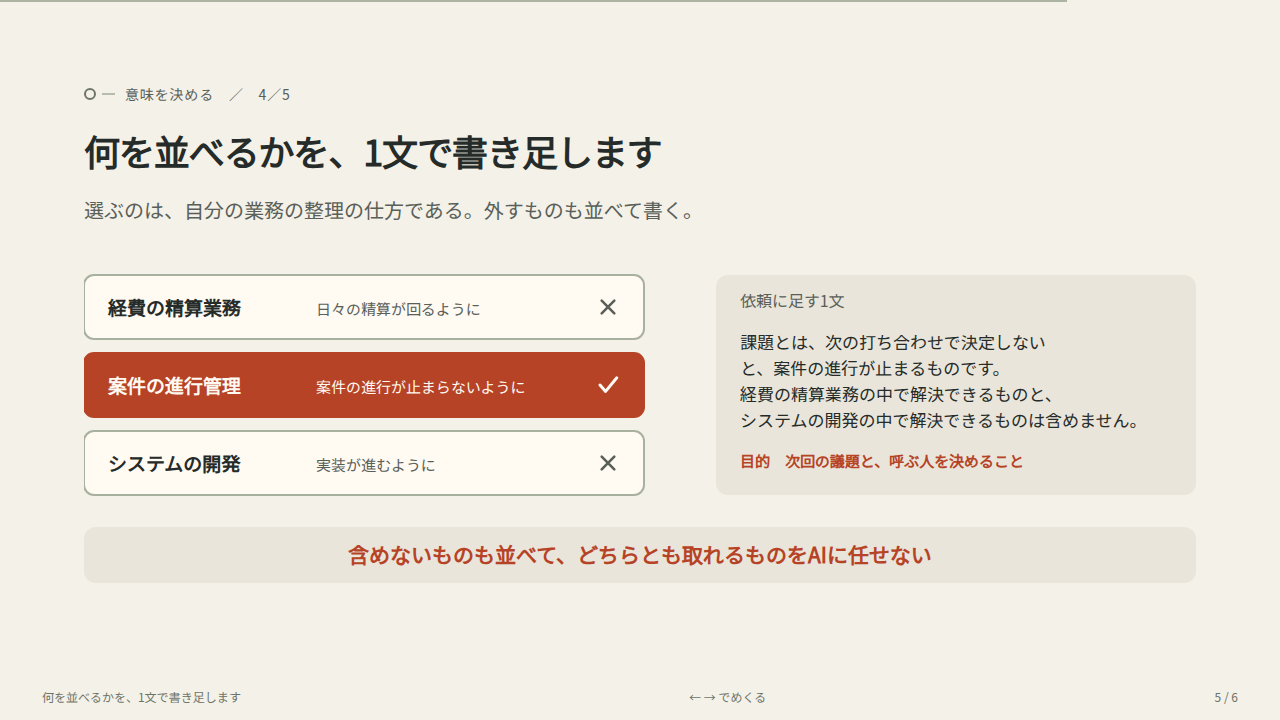
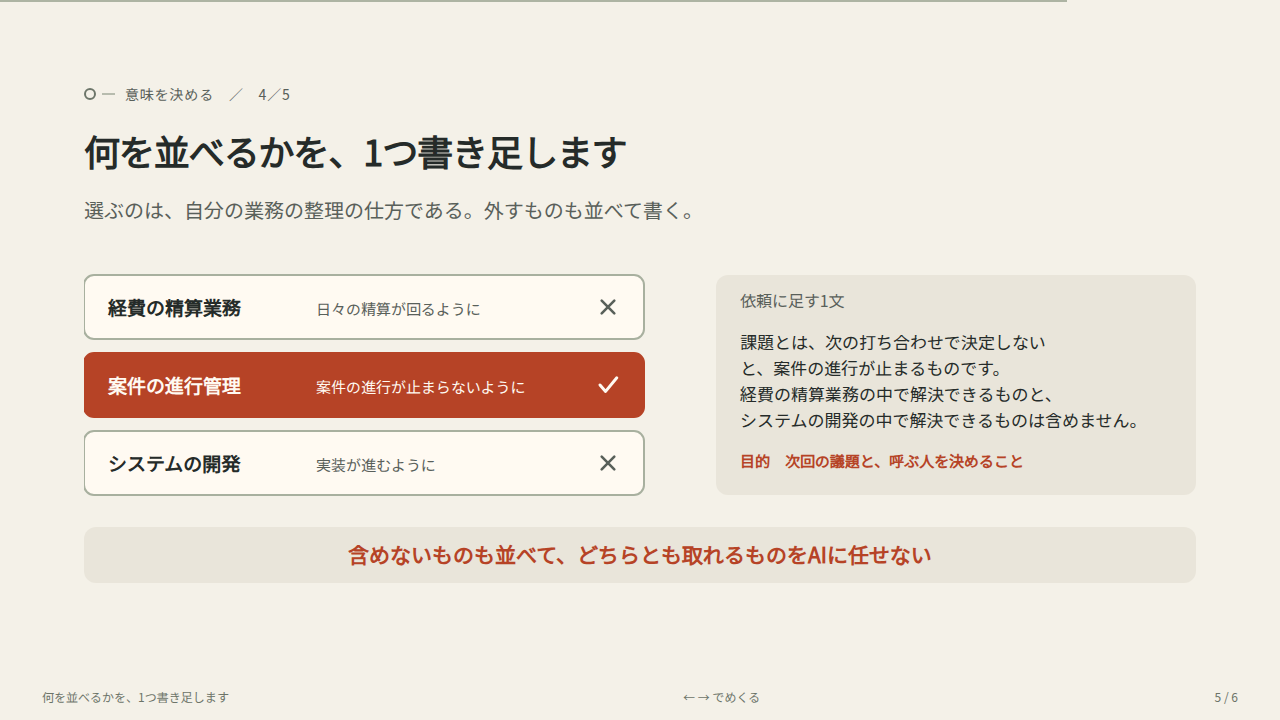
全54枚の本文を通して読み、25件を直す
前の回は、書き直した枚とつなぎと数値だけを見て、全枚の本文を通して
読んでいなかった。利用者に指摘され、頭から終わりまで読んだ。

論の穴が12件 ── 「からです」の受けが無い文、「この3つ」の指し先が
2通りに読める箇所、揺らぐの定義より前に揺らぎ方と述べている箇所、
「意味の文が落とす」の言い残し、「経理の整理」と「精算業務の側」の
呼び分けの崩れ、AIの決め方を「毎回違う」と「毎回同じとは限らない」で
言い分けている箇所ほか。

見出しが本文と合っていないものが4件 ── 「この6本が扱うのは」（6本の
初出が見出しにあった）、「1文で書き足します」が2件（3文を3つへ統一
したときの取り残し）、「条件は、1件ずつの中身を決めます」（条件は
4つで、2つは一覧の全体に効く）。

定義していない語が2件 ──「1段下がる」。高さは連続した量として定義
しており、段は無い。

ほかに、文体の不統一、枚をまたいだ重複、助数詞の誤り（議事録を本で
数えていた）を直した。

45字以上の文は0件、説明より前に出る語は0件、枚どうしの重なりは35%超で
0件である。

Claude-Session: https://claude.ai/code/session_01NPi5xYeUBqV4K3tpkqYXte

Changed region(s): [[0.2812, 0.1833, 0.5312, 0.2444], [0.0938, 0.9472, 0.1875, 0.9778], [0.5312, 0.9472, 0.5938, 0.9778]]

diff --git a/docs/workshops/ai-workshop/materials/decks/lesson-05-rule.html b/docs/workshops/ai-workshop/materials/decks/lesson-05-rule.html
@@ -431,9 +431,9 @@ h1{font-size:51px;line-height:1.43} h2{font-size:36px;line-height:1.46;margin-bo
 <p class="ws-intro">では、何が足りないのか。この一覧は、次の打ち合わせで決めるために作ったものだった。ならば、項目名だけでは足りない。</p>
 <div class="body"><svg class="ws-visual" viewBox="0 0 1112 348" role="img" aria-label="必ず入れてほしい3つが、頭の中には在り、依頼には書かれていない"><text x="0" y="24.0" font-size="18" fill="#59605a" font-weight="400" text-anchor="start">頭の中にあった約束</text><rect x="0" y="40" width="520" height="214" rx="12" fill="#fffaf2" stroke="#a8b09f" stroke-width="2"/><text x="28" y="74.0" font-size="19" fill="#252b29" font-weight="700" text-anchor="start">誰が決めるか</text><text x="28" y="100.0" font-size="16" fill="#59605a" font-weight="400" text-anchor="start">ないと　その場に呼ぶ人が決まらない</text><text x="28" y="136.0" font-size="19" fill="#252b29" font-weight="700" text-anchor="start">いつまでに決めるか</text><text x="28" y="162.0" font-size="16" fill="#59605a" font-weight="400" text-anchor="start">ないと　今回扱うかが決まらない</text><text x="28" y="198.0" font-size="19" fill="#252b29" font-weight="700" text-anchor="start">決定の期限の順に並べる</text><text x="28" y="224.0" font-size="16" fill="#59605a" font-weight="400" text-anchor="start">ないと　どれを先に扱うかが分からない</text><text x="596" y="24.0" font-size="18" fill="#59605a" font-weight="400" text-anchor="start">依頼に書いてあったこと</text><rect x="596" y="40" width="516" height="214" rx="12" fill="#e9e5da" stroke="none" stroke-width="2"/><text x="624" y="82.0" font-size="18" fill="#252b29" font-weight="700" text-anchor="start">意味</text><text x="700" y="82.0" font-size="17" fill="#59605a" font-weight="400" text-anchor="start">決定しないと案件の進行が止まるもの</text><text x="624" y="122.0" font-size="18" fill="#252b29" font-weight="700" text-anchor="start">範囲</text><text x="700" y="122.0" font-size="17" fill="#59605a" font-weight="400" text-anchor="start">今回の案件で、本番の切り替えまでに決めるもの</text><text x="624" y="170.0" font-size="18" fill="#59605a" font-weight="700" text-anchor="start">条件</text><path d="M707.7 157.7 L720.3 170.3 M720.3 157.7 L707.7 170.3" stroke="#b64326" stroke-width="2.6" fill="none" stroke-linecap="round" stroke-linejoin="round"/><text x="740" y="170.0" font-size="17" fill="#b64326" font-weight="700" text-anchor="start">書いていない</text><text x="624" y="216.0" font-size="16" fill="#59605a" font-weight="400" text-anchor="start">書いていない約束は、守られる回と</text><text x="624" y="240.0" font-size="16" fill="#59605a" font-weight="400" text-anchor="start">守られない回が出る</text><rect x="0" y="280" width="1112" height="56" rx="12" fill="#e9e5da" stroke="none" stroke-width="2"/><text x="556.0" y="316.0" font-size="21" fill="#b64326" font-weight="700" text-anchor="middle">AIが手を抜いたのではない。書いていないことは、頼んでいないのと同じである</text></svg></div>
 </section>
-<section class="slide ws-diagram" aria-label="4: 条件は、1件ずつの中身を決めます">
+<section class="slide ws-diagram" aria-label="4: 条件には、1件ずつに効くものと、一覧に効くものがあります">
 <div class="kicker"><span class="ws-mark" aria-hidden="true"></span><span class="ws-kicker-label">条件を決める　／　3／5</span></div>
-<h2>条件は、1件ずつの中身を決めます</h2>
+<h2>条件には、1件ずつに効くものと、一覧に効くものがあります</h2>
 <p class="ws-intro">では、条件は意味や範囲と何が違うのか。意味と範囲は一覧の形を決め、条件は1件ずつの中身を決める。</p>
 <div class="body"><svg class="ws-visual" viewBox="0 0 1112 300" role="img" aria-label="意味と範囲は一覧に効き、条件は1件ずつに効く"><text x="0" y="24.0" font-size="18" fill="#59605a" font-weight="400" text-anchor="start">決まるものが違う</text><rect x="0" y="44" width="250" height="68" rx="10" fill="#fffaf2" stroke="#a8b09f" stroke-width="2"/><text x="125" y="76.0" font-size="20" fill="#252b29" font-weight="700" text-anchor="middle">意味</text><text x="125" y="98.0" font-size="15" fill="#59605a" font-weight="400" text-anchor="middle">並べるものの種類</text><rect x="0" y="124" width="250" height="68" rx="10" fill="#fffaf2" stroke="#a8b09f" stroke-width="2"/><text x="125" y="156.0" font-size="20" fill="#252b29" font-weight="700" text-anchor="middle">範囲</text><text x="125" y="178.0" font-size="15" fill="#59605a" font-weight="400" text-anchor="middle">拾ってくる場所</text><path d="M250 78 H300 V118 M250 158 H300 V118 H336" stroke="#a8b09f" stroke-width="2" fill="none" stroke-linecap="round" stroke-linejoin="round"/><path d="M327 112 l9 6 -9 6" stroke="#a8b09f" stroke-width="2" fill="none" stroke-linecap="round" stroke-linejoin="round"/><rect x="336" y="76" width="300" height="84" rx="10" fill="#e9e5da" stroke="none" stroke-width="2"/><text x="486" y="112.0" font-size="20" fill="#252b29" font-weight="700" text-anchor="middle">返ってくる一覧</text><text x="486" y="138.0" font-size="15" fill="#59605a" font-weight="400" text-anchor="middle">どういう一覧になるか</text><path d="M646 118 H686 M678 111 l8 7 -8 7" stroke="#a8b09f" stroke-width="2" fill="none" stroke-linecap="round" stroke-linejoin="round"/><rect x="696" y="44" width="416" height="44" rx="8" fill="#fffaf2" stroke="#a8b09f" stroke-width="2"/><text x="716" y="72.0" font-size="17" fill="#252b29" font-weight="400" text-anchor="start">承認の経路</text><text x="900" y="72.0" font-size="15" fill="#b64326" font-weight="400" text-anchor="start">誰が決めるか</text><text x="1010" y="72.0" font-size="15" fill="#b64326" font-weight="400" text-anchor="start">いつまでに</text><rect x="696" y="102" width="416" height="44" rx="8" fill="#fffaf2" stroke="#a8b09f" stroke-width="2"/><text x="716" y="130.0" font-size="17" fill="#252b29" font-weight="400" text-anchor="start">申請の締め日</text><text x="900" y="130.0" font-size="15" fill="#b64326" font-weight="400" text-anchor="start">誰が決めるか</text><text x="1010" y="130.0" font-size="15" fill="#b64326" font-weight="400" text-anchor="start">いつまでに</text><rect x="696" y="160" width="416" height="44" rx="8" fill="#fffaf2" stroke="#a8b09f" stroke-width="2"/><text x="716" y="188.0" font-size="17" fill="#252b29" font-weight="400" text-anchor="start">旧システムの停止日</text><text x="900" y="188.0" font-size="15" fill="#b64326" font-weight="400" text-anchor="start">誰が決めるか</text><text x="1010" y="188.0" font-size="15" fill="#b64326" font-weight="400" text-anchor="start">いつまでに</text><rect x="696" y="232" width="416" height="56" rx="10" fill="#b64326" stroke="#b64326" stroke-width="2"/><text x="904" y="258.0" font-size="19" fill="#fffaf2" font-weight="700" text-anchor="middle">条件</text><text x="904" y="280.0" font-size="15" fill="#fffaf2" font-weight="400" text-anchor="middle">必ず入れるものと、並べる順</text><path d="M904 232 V214 M898 220 l6 -6 6 6" stroke="#b64326" stroke-width="2" fill="none" stroke-linecap="round" stroke-linejoin="round"/><text x="0" y="250.0" font-size="16" fill="#59605a" font-weight="400" text-anchor="start">書いてあっても、書き方まで決めていないと揃わない</text></svg></div>
 </section>
@@ -462,7 +462,7 @@ h1{font-size:51px;line-height:1.43} h2{font-size:36px;line-height:1.46;margin-bo
   const elTotal = document.getElementById('total');
   const elBar = document.getElementById('progress');
   const elLabel = document.getElementById('label');
-  const LABELS = ["表紙", "意味と範囲を決めても、1件ずつの中身は揃いま", "必ず入れてほしい4つを、依頼に書いていません", "条件は、1件ずつの中身を決めます", "条件を書き足すと、1件ずつがこうなります", "条件を足すと、1件ずつの中身が揃います"];
+  const LABELS = ["表紙", "意味と範囲を決めても、1件ずつの中身は揃いま", "必ず入れてほしい4つを、依頼に書いていません", "条件には、1件ずつに効くものと、一覧に効くも", "条件を書き足すと、1件ずつがこうなります", "条件を足すと、1件ずつの中身が揃います"];
   let i = 0;
   elTotal.textContent = total;
   function show(n){

diff --git a/docs/workshops/ai-workshop/materials/decks/lesson-03-word.html b/docs/workshops/ai-workshop/materials/decks/lesson-03-word.html
@@ -437,9 +437,9 @@ h1{font-size:51px;line-height:1.43} h2{font-size:36px;line-height:1.46;margin-bo
 <p class="ws-intro">揺れているのはAIではない。PMは自分の業務の目的なので、書く必要を感じない。</p>
 <div class="body"><svg class="ws-visual" viewBox="0 0 1112 380" role="img" aria-label="何のために整理するかを書いていないので、AIが選定する"><text x="0" y="26.0" font-size="17" fill="#59605a" font-weight="400" text-anchor="start">AIから見ると、3つとも同じ資格の候補である</text><rect x="400" y="52" width="312" height="66" rx="12" fill="#b64326" stroke="#b64326" stroke-width="2"/><text x="556" y="95.0" font-size="26" fill="#fffaf2" font-weight="700" text-anchor="middle">「整理して」</text><path d="M556 118 C556 152 172 144 172 174" stroke="#b64326" stroke-width="2" fill="none" stroke-linecap="round" stroke-linejoin="round"/><path d="M166 168 l6 8 6 -8" stroke="#b64326" stroke-width="2" fill="none" stroke-linecap="round" stroke-linejoin="round"/><rect x="0" y="180" width="344" height="86" rx="12" fill="#fffaf2" stroke="#a8b09f" stroke-width="2"/><text x="172" y="216.0" font-size="19" fill="#252b29" font-weight="700" text-anchor="middle">経費の精算業務</text><text x="172" y="246.0" font-size="15" fill="#59605a" font-weight="400" text-anchor="middle">日々の精算が回るように</text><path d="M166.6 280.6 L177.4 291.4 M177.4 280.6 L166.6 291.4" stroke="#59605a" stroke-width="2.6" fill="none" stroke-linecap="round" stroke-linejoin="round"/><path d="M556 118 C556 152 556 144 556 174" stroke="#b64326" stroke-width="2" fill="none" stroke-linecap="round" stroke-linejoin="round"/><path d="M550 168 l6 8 6 -8" stroke="#b64326" stroke-width="2" fill="none" stroke-linecap="round" stroke-linejoin="round"/><rect x="384" y="180" width="344" height="86" rx="12" fill="#fffaf2" stroke="#b64326" stroke-width="2"/><text x="556" y="216.0" font-size="19" fill="#252b29" font-weight="700" text-anchor="middle">案件の進行管理</text><text x="556" y="246.0" font-size="15" fill="#59605a" font-weight="400" text-anchor="middle">案件の進行が止まらないように</text><text x="556" y="292.0" font-size="16" fill="#b64326" font-weight="700" text-anchor="middle">PMが意図したのは、これ1つ</text><path d="M556 118 C556 152 940 144 940 174" stroke="#b64326" stroke-width="2" fill="none" stroke-linecap="round" stroke-linejoin="round"/><path d="M934 168 l6 8 6 -8" stroke="#b64326" stroke-width="2" fill="none" stroke-linecap="round" stroke-linejoin="round"/><rect x="768" y="180" width="344" height="86" rx="12" fill="#fffaf2" stroke="#a8b09f" stroke-width="2"/><text x="940" y="216.0" font-size="19" fill="#252b29" font-weight="700" text-anchor="middle">システムの開発</text><text x="940" y="246.0" font-size="15" fill="#59605a" font-weight="400" text-anchor="middle">実装が進むように</text><path d="M934.6 280.6 L945.4 291.4 M945.4 280.6 L934.6 291.4" stroke="#59605a" stroke-width="2.6" fill="none" stroke-linecap="round" stroke-linejoin="round"/><rect x="0" y="312" width="1112" height="56" rx="12" fill="#e9e5da" stroke="none" stroke-width="2"/><text x="556.0" y="348.0" font-size="21" fill="#b64326" font-weight="700" text-anchor="middle">書いていないので、選定するのはAIになる</text></svg></div>
 </section>
-<section class="slide ws-diagram" aria-label="5: 何を並べるかを、1文で書き足します">
+<section class="slide ws-diagram" aria-label="5: 何を並べるかを、1つ書き足します">
 <div class="kicker"><span class="ws-mark" aria-hidden="true"></span><span class="ws-kicker-label">意味を決める　／　4／5</span></div>
-<h2>何を並べるかを、1文で書き足します</h2>
+<h2>何を並べるかを、1つ書き足します</h2>
 <p class="ws-intro">選ぶのは、自分の業務の整理の仕方である。外すものも並べて書く。</p>
 <div class="body"><svg class="ws-visual" viewBox="0 0 1112 350" role="img" aria-label="3つの整理の仕方のうち1つを選び、目的の言葉で書き直す"><rect x="0" y="30" width="560" height="64" rx="10" fill="#fffaf2" stroke="#a8b09f" stroke-width="2"/><text x="24" y="70.0" font-size="19" fill="#252b29" font-weight="700" text-anchor="start">経費の精算業務</text><text x="232" y="70.0" font-size="15" fill="#59605a" font-weight="400" text-anchor="start">日々の精算が回るように</text><path d="M517.7 55.7 L530.3 68.3 M530.3 55.7 L517.7 68.3" stroke="#59605a" stroke-width="2.6" fill="none" stroke-linecap="round" stroke-linejoin="round"/><rect x="0" y="108" width="560" height="64" rx="10" fill="#b64326" stroke="#b64326" stroke-width="2"/><text x="24" y="148.0" font-size="19" fill="#fffaf2" font-weight="700" text-anchor="start">案件の進行管理</text><text x="232" y="148.0" font-size="15" fill="#fffaf2" font-weight="400" text-anchor="start">案件の進行が止まらないように</text><path d="M516.0 140 L521.6 146.4 L532.8 132.8" stroke="#fffaf2" stroke-width="3" fill="none" stroke-linecap="round" stroke-linejoin="round"/><rect x="0" y="186" width="560" height="64" rx="10" fill="#fffaf2" stroke="#a8b09f" stroke-width="2"/><text x="24" y="226.0" font-size="19" fill="#252b29" font-weight="700" text-anchor="start">システムの開発</text><text x="232" y="226.0" font-size="15" fill="#59605a" font-weight="400" text-anchor="start">実装が進むように</text><path d="M517.7 211.7 L530.3 224.3 M530.3 211.7 L517.7 224.3" stroke="#59605a" stroke-width="2.6" fill="none" stroke-linecap="round" stroke-linejoin="round"/><rect x="632" y="30" width="480" height="220" rx="12" fill="#e9e5da" stroke="none" stroke-width="2"/><text x="656" y="62.0" font-size="16" fill="#59605a" font-weight="400" text-anchor="start">依頼に足す1文</text><text x="656" y="104" font-size="17" fill="#252b29" font-weight="400" text-anchor="start">課題とは、次の打ち合わせで決定しない</text><text x="656" y="130" font-size="17" fill="#252b29" font-weight="400" text-anchor="start">と、案件の進行が止まるものです。</text><text x="656" y="156" font-size="17" fill="#252b29" font-weight="400" text-anchor="start">経費の精算業務の中で解決できるものと、</text><text x="656" y="182" font-size="17" fill="#252b29" font-weight="400" text-anchor="start">システムの開発の中で解決できるものは含めません。</text><text x="656" y="222.0" font-size="15" fill="#b64326" font-weight="700" text-anchor="start">目的　次回の議題と、呼ぶ人を決めること</text><rect x="0" y="282" width="1112" height="56" rx="12" fill="#e9e5da" stroke="none" stroke-width="2"/><text x="556.0" y="318.0" font-size="21" fill="#b64326" font-weight="700" text-anchor="middle">含めないものも並べて、どちらとも取れるものをAIに任せない</text></svg></div>
 </section>
@@ -462,7 +462,7 @@ h1{font-size:51px;line-height:1.43} h2{font-size:36px;line-height:1.46;margin-bo
   const elTotal = document.getElementById('total');
   const elBar = document.getElementById('progress');
   const elLabel = document.getElementById('label');
-  const LABELS = ["表紙", "同じものを渡して、同じことを3回頼みます", "整理の目的が、業務ごとに違います", "依頼には、何のために整理するかが書いてありま", "何を並べるかを、1文で書き足します", "意味を足すと、並ぶものの種類が揃います"];
+  const LABELS = ["表紙", "同じものを渡して、同じことを3回頼みます", "整理の目的が、業務ごとに違います", "依頼には、何のために整理するかが書いてありま", "何を並べるかを、1つ書き足します", "意味を足すと、並ぶものの種類が揃います"];
   let i = 0;
   elTotal.textContent = total;
   function show(n){

diff --git a/docs/workshops/ai-workshop/materials/decks/lesson-01-lead.html b/docs/workshops/ai-workshop/materials/decks/lesson-01-lead.html
@@ -425,9 +425,9 @@ h1{font-size:51px;line-height:1.43} h2{font-size:36px;line-height:1.46;margin-bo
 <p class="ws-intro">いまは名前だけでよい。何を指すかは、このあと実際の依頼で見せる。</p>
 <div class="body"><svg class="ws-visual" viewBox="0 0 1112 320" role="img" aria-label="この6本で身につけるものと、最後まで観たときに変わること"><text x="0" y="22.0" font-size="17" fill="#59605a" font-weight="400" text-anchor="start">この6本の動画で身につけるもの</text><rect x="0" y="38" width="536" height="190" rx="12" fill="#fffaf2" stroke="#b64326" stroke-width="2"/><text x="28" y="86.0" font-size="25" fill="#b64326" font-weight="700" text-anchor="start">抽象と具体という見方</text><path d="M28 106 H508" stroke="#a8b09f" stroke-width="1" fill="none" stroke-linecap="round" stroke-linejoin="round"/><text x="28" y="140" font-size="16" fill="#59605a" font-weight="400" text-anchor="start">広い言い方と狭い言い方のこと。</text><text x="28" y="166" font-size="16" fill="#59605a" font-weight="400" text-anchor="start">どちらがよい、という話ではない</text><text x="28" y="204.0" font-size="20" fill="#252b29" font-weight="700" text-anchor="start">ちょうどいい高さを見極める</text><text x="576" y="22.0" font-size="17" fill="#b64326" font-weight="700" text-anchor="start">最後まで観ると、こうなる</text><rect x="576" y="38" width="536" height="190" rx="12" fill="#e9e5da" stroke="none" stroke-width="2"/><path d="M600.0 86 L605.6 92.4 L616.8 78.8" stroke="#b64326" stroke-width="3" fill="none" stroke-linecap="round" stroke-linejoin="round"/><text x="638" y="92.0" font-size="17" fill="#252b29" font-weight="400" text-anchor="start">同じ依頼を、次の週も別の案件でも使える</text><path d="M600.0 138 L605.6 144.4 L616.8 130.8" stroke="#b64326" stroke-width="3" fill="none" stroke-linecap="round" stroke-linejoin="round"/><text x="638" y="144.0" font-size="17" fill="#252b29" font-weight="400" text-anchor="start">渡すものが替わっても、目的から外れない</text><path d="M600.0 190 L605.6 196.4 L616.8 182.8" stroke="#b64326" stroke-width="3" fill="none" stroke-linecap="round" stroke-linejoin="round"/><text x="638" y="196.0" font-size="17" fill="#252b29" font-weight="400" text-anchor="start">AIから返ってくるものに、再現性が出る</text><rect x="0" y="252" width="1112" height="56" rx="12" fill="#e9e5da" stroke="none" stroke-width="2"/><text x="556.0" y="288.0" font-size="21" fill="#b64326" font-weight="700" text-anchor="middle">名前より先に、実際に何が起きているかを見ます</text></svg></div>
 </section>
-<section class="slide ws-diagram" aria-label="3: この6本が扱うのは、作業1つだけです">
+<section class="slide ws-diagram" aria-label="3: この教材が扱うのは、作業1つだけです">
 <div class="kicker"><span class="ws-mark" aria-hidden="true"></span><span class="ws-kicker-label">はじめに　課題の把握　／　2／3</span></div>
-<h2>この6本が扱うのは、作業1つだけです</h2>
+<h2>この教材が扱うのは、作業1つだけです</h2>
 <p class="ws-intro">作業を1つに固定するので、返ってきたものが正しいかを判定できる。</p>
 <div class="body"><svg class="ws-visual" viewBox="0 0 1112 368" role="img" aria-label="6本が扱うのは、案件の進行管理の中の作業1つである"><text x="0" y="24.0" font-size="18" fill="#59605a" font-weight="400" text-anchor="start">案件の進行管理の中の作業</text><rect x="0" y="48" width="460" height="46" rx="10" fill="#b64326" stroke="#b64326" stroke-width="2"/><text x="24" y="78.0" font-size="19" fill="#fffaf2" font-weight="700" text-anchor="start">課題を整理する</text><rect x="0" y="106" width="460" height="46" rx="10" fill="#fffaf2" stroke="#a8b09f" stroke-width="2"/><text x="24" y="136.0" font-size="19" fill="#59605a" font-weight="400" text-anchor="start">次回の議題を組む</text><rect x="0" y="164" width="460" height="46" rx="10" fill="#fffaf2" stroke="#a8b09f" stroke-width="2"/><text x="24" y="194.0" font-size="19" fill="#59605a" font-weight="400" text-anchor="start">進捗を報告する</text><rect x="0" y="222" width="460" height="46" rx="10" fill="#fffaf2" stroke="#a8b09f" stroke-width="2"/><text x="24" y="252.0" font-size="19" fill="#59605a" font-weight="400" text-anchor="start">要員の割り当てを決める</text><path d="M492 140 H540 M532 133 l8 7 -8 7" stroke="#b64326" stroke-width="2" fill="none" stroke-linecap="round" stroke-linejoin="round"/><text x="596" y="24.0" font-size="18" fill="#b64326" font-weight="700" text-anchor="start">この6本が扱う作業</text><rect x="596" y="44" width="516" height="232" rx="12" fill="#fffaf2" stroke="#b64326" stroke-width="2"/><text x="624" y="88.0" font-size="24" fill="#252b29" font-weight="700" text-anchor="start">課題を整理する</text><path d="M624 106 H1084" stroke="#a8b09f" stroke-width="1" fill="none" stroke-linecap="round" stroke-linejoin="round"/><text x="624" y="142.0" font-size="15" fill="#b64326" font-weight="700" text-anchor="start">誰が</text><text x="750" y="142.0" font-size="17" fill="#252b29" font-weight="400" text-anchor="start">PM</text><text x="624" y="178.0" font-size="15" fill="#b64326" font-weight="700" text-anchor="start">何のために</text><text x="750" y="178.0" font-size="17" fill="#252b29" font-weight="400" text-anchor="start">次回の議題と、呼ぶ人を決めること</text><text x="624" y="214.0" font-size="15" fill="#b64326" font-weight="700" text-anchor="start">渡すもの</text><text x="750" y="214.0" font-size="17" fill="#252b29" font-weight="400" text-anchor="start">定例の議事録</text><text x="624" y="250.0" font-size="15" fill="#b64326" font-weight="700" text-anchor="start">返すもの</text><text x="750" y="250.0" font-size="17" fill="#252b29" font-weight="400" text-anchor="start">課題の一覧</text><rect x="0" y="300" width="1112" height="56" rx="12" fill="#e9e5da" stroke="none" stroke-width="2"/><text x="556.0" y="336.0" font-size="21" fill="#b64326" font-weight="700" text-anchor="middle">6本とも、この1つの作業で進む</text></svg></div>
 </section>
@@ -450,7 +450,7 @@ h1{font-size:51px;line-height:1.43} h2{font-size:36px;line-height:1.46;margin-bo
   const elTotal = document.getElementById('total');
   const elBar = document.getElementById('progress');
   const elLabel = document.getElementById('label');
-  const LABELS = ["表紙", "この教材で身につけるのは、抽象と具体という見", "この6本が扱うのは、作業1つだけです", "6本で、この順に進みます"];
+  const LABELS = ["表紙", "この教材で身につけるのは、抽象と具体という見", "この教材が扱うのは、作業1つだけです", "6本で、この順に進みます"];
   let i = 0;
   elTotal.textContent = total;
   function show(n){

diff --git a/docs/workshops/ai-workshop/materials/decks/lesson-04-scope.html b/docs/workshops/ai-workshop/materials/decks/lesson-04-scope.html
@@ -437,9 +437,9 @@ h1{font-size:51px;line-height:1.43} h2{font-size:36px;line-height:1.46;margin-bo
 <p class="ws-intro">意味を決めても、範囲は決まらない。書かなければ、そこはAIが決める。</p>
 <div class="body"><svg class="ws-visual" viewBox="0 0 1112 292" role="img" aria-label="意味は並べるものの種類を決め、範囲は拾う話の範囲を決める"><rect x="0" y="30" width="536" height="168" rx="12" fill="#fffaf2" stroke="#a8b09f" stroke-width="2"/><text x="32" y="74.0" font-size="24" fill="#b64326" font-weight="700" text-anchor="start">意味</text><text x="32" y="112.0" font-size="21" fill="#252b29" font-weight="400" text-anchor="start">何を並べるか</text><text x="32" y="150.0" font-size="17" fill="#59605a" font-weight="400" text-anchor="start">並べるものの種類が決まる。</text><text x="32" y="178.0" font-size="17" fill="#59605a" font-weight="400" text-anchor="start">決定しないと進行が止まるものだけを並べる。</text><rect x="576" y="30" width="536" height="168" rx="12" fill="#fffaf2" stroke="#a8b09f" stroke-width="2"/><text x="608" y="74.0" font-size="24" fill="#b64326" font-weight="700" text-anchor="start">範囲</text><text x="608" y="112.0" font-size="21" fill="#252b29" font-weight="400" text-anchor="start">どこから拾うか</text><text x="608" y="150.0" font-size="17" fill="#59605a" font-weight="400" text-anchor="start">拾ってくる場所が決まる。</text><text x="608" y="178.0" font-size="17" fill="#59605a" font-weight="400" text-anchor="start">議事録の中の、どの話までを対象にするか。</text><rect x="0" y="224" width="1112" height="56" rx="12" fill="#e9e5da" stroke="none" stroke-width="2"/><text x="556.0" y="260.0" font-size="21" fill="#b64326" font-weight="700" text-anchor="middle">片方を決めても、もう片方は決まらない。書かなければ、AIが決める</text></svg></div>
 </section>
-<section class="slide ws-diagram" aria-label="5: 範囲を1文だけ書き足します">
+<section class="slide ws-diagram" aria-label="5: 範囲を1つだけ書き足します">
 <div class="kicker"><span class="ws-mark" aria-hidden="true"></span><span class="ws-kicker-label">範囲を決める　／　4／5</span></div>
-<h2>範囲を1文だけ書き足します</h2>
+<h2>範囲を1つだけ書き足します</h2>
 <p class="ws-intro">範囲の外では、同じ語が別の人にとっての課題を指す。</p>
 <div class="body"><svg class="ws-visual" viewBox="0 0 1112 320" role="img" aria-label="議事録の中の、対象にする話と対象にしない話を分ける"><text x="0" y="22.0" font-size="17" fill="#b64326" font-weight="700" text-anchor="start">対象にする</text><rect x="0" y="38" width="536" height="62" rx="10" fill="#e9e5da" stroke="none" stroke-width="2"/><text x="24" y="66.0" font-size="17" fill="#252b29" font-weight="700" text-anchor="start">今回の案件で、切り替えまでに決めること</text><text x="24" y="88.0" font-size="14" fill="#59605a" font-weight="400" text-anchor="start">例　承認の経路／申請の締め日／旧システムの停止日</text><text x="0" y="132.0" font-size="17" fill="#59605a" font-weight="400" text-anchor="start">対象にしない</text><rect x="0" y="148" width="536" height="46" rx="8" fill="#fffaf2" stroke="#a8b09f" stroke-width="2"/><path d="M22.6 164.6 L33.4 175.4 M33.4 164.6 L22.6 175.4" stroke="#59605a" stroke-width="2.6" fill="none" stroke-linecap="round" stroke-linejoin="round"/><text x="54" y="176.0" font-size="16" fill="#59605a" font-weight="700" text-anchor="start">次のフェーズで決めること</text><rect x="0" y="206" width="536" height="46" rx="8" fill="#fffaf2" stroke="#a8b09f" stroke-width="2"/><path d="M22.6 222.6 L33.4 233.4 M33.4 222.6 L22.6 233.4" stroke="#59605a" stroke-width="2.6" fill="none" stroke-linecap="round" stroke-linejoin="round"/><text x="54" y="234.0" font-size="16" fill="#59605a" font-weight="700" text-anchor="start">定例で出た別案件の相談</text><rect x="0" y="264" width="536" height="46" rx="8" fill="#fffaf2" stroke="#a8b09f" stroke-width="2"/><path d="M22.6 280.6 L33.4 291.4 M33.4 280.6 L22.6 291.4" stroke="#59605a" stroke-width="2.6" fill="none" stroke-linecap="round" stroke-linejoin="round"/><text x="54" y="292.0" font-size="16" fill="#59605a" font-weight="700" text-anchor="start">全社の連絡事項</text><path d="M552 160 H592 M584 153 l8 7 -8 7" stroke="#b64326" stroke-width="2" fill="none" stroke-linecap="round" stroke-linejoin="round"/><rect x="608" y="38" width="504" height="244" rx="12" fill="#fffaf2" stroke="#b64326" stroke-width="2"/><text x="636" y="78.0" font-size="16" fill="#59605a" font-weight="400" text-anchor="start">依頼に足す1文</text><text x="636" y="116" font-size="18" fill="#252b29" font-weight="400" text-anchor="start">見るのは、今回の案件で、本番の切り替え</text><text x="636" y="146" font-size="18" fill="#252b29" font-weight="400" text-anchor="start">までに決めるものです。次のフェーズの話</text><text x="636" y="176" font-size="18" fill="#252b29" font-weight="400" text-anchor="start">と、定例で出た別案件の話、全社の連絡事</text><text x="636" y="206" font-size="18" fill="#252b29" font-weight="400" text-anchor="start">項は含めません。</text><path d="M636 248 H1084" stroke="#a8b09f" stroke-width="1" fill="none" stroke-linecap="round" stroke-linejoin="round"/><text x="636" y="272.0" font-size="16" fill="#b64326" font-weight="700" text-anchor="start">対象にしないものも、並べて書く</text></svg></div>
 </section>
@@ -462,7 +462,7 @@ h1{font-size:51px;line-height:1.43} h2{font-size:36px;line-height:1.46;margin-bo
   const elTotal = document.getElementById('total');
   const elBar = document.getElementById('progress');
   const elLabel = document.getElementById('label');
-  const LABELS = ["表紙", "同じ議事録に、4種類の話が混ざっています", "違うのは、どこまでを対象にしたかです", "意味は「何を並べるか」、範囲は「どこから拾う", "範囲を1文だけ書き足します", "範囲を足すと、拾ってくる場所が揃います"];
+  const LABELS = ["表紙", "同じ議事録に、4種類の話が混ざっています", "違うのは、どこまでを対象にしたかです", "意味は「何を並べるか」、範囲は「どこから拾う", "範囲を1つだけ書き足します", "範囲を足すと、拾ってくる場所が揃います"];
   let i = 0;
   elTotal.textContent = total;
   function show(n){

diff --git a/docs/workshops/ai-workshop/materials/decks/lesson-04-scope-script.md b/docs/workshops/ai-workshop/materials/decks/lesson-04-scope-script.md
@@ -1,10 +1,10 @@
 # 4本目　範囲を決める ── 渡すもののどこまでを見るかを、依頼に書く
 
-枚数 6（表紙1・本編5）　読み上げ 2118字
+枚数 6（表紙1・本編5）　読み上げ 2113字
 
 ## 01　同じ議事録に、4種類の話が混ざっています
 
-意味は決めました。課題とは、決定しないと案件の進行が止まるものである、という指定です。次は、渡すものを増やします。定例の議事録を、5週分まとめて渡します。実際の仕事でも、こういう渡し方をします。ここで、議事録の中身を見ておきます。2本目で見た、精算業務や開発の中で解決できる話は、意味を決めた時点で、もう落ちています。意味の文が落としたあとも、議事録には次の4種類が残っています。1つめは、今回の案件で、本番の切り替えまでに決めることです。これが欲しいものです。2つめは、次のフェーズで決めることです。交通費の自動取得、海外出張の通貨の換算など。切り替えの後の話なので、いま決める必要はありません。3つめは、定例で出た別案件の相談です。要員の手配をどうするか、といった話が、ついでに出ます。4つめは、全社の連絡事項です。研修の案内と、勤怠の締めです。議事録には残りますが、案件の話ではありません。このほかに、すでに決まったことも議事録には残ります。決着した議題の記録です。5週分を渡しても、欲しいものは増えません。定例では、決まるまで同じ議題が繰り返し出るからです。増えるのは、案件以外の話のほうです。この5週分を渡して、同じ依頼を3回出します。意味は書いてあります。ところが、返ってきたのは、5件、9件、14件でした。いちばん少ない回といちばん多い回で、3倍近く違います。
+意味は決めました。課題とは、決定しないと案件の進行が止まるものである、という指定です。次は、渡すものを増やします。定例の議事録を、5週分まとめて渡します。実際の仕事でも、こういう渡し方をします。ここで、議事録の中身を見ておきます。精算業務や開発の中で解決できる話は、前の動画で意味を決めた時点で、もう落ちています。それでも、議事録には次の4種類が残っています。1つめは、今回の案件で、本番の切り替えまでに決めることです。これが欲しいものです。2つめは、次のフェーズで決めることです。交通費の自動取得、海外出張の通貨の換算など。切り替えの後の話なので、いま決める必要はありません。3つめは、定例で出た別案件の相談です。要員の手配をどうするか、といった話が、ついでに出ます。4つめは、全社の連絡事項です。研修の案内と、勤怠の締めです。議事録には残りますが、案件の話ではありません。このほかに、すでに決まったことも議事録には残ります。決着した議題の記録です。5週分を渡しても、欲しいものは増えません。定例では、決まるまで同じ議題が繰り返し出るからです。増えるのは、案件以外の話のほうです。この5週分を渡して、同じ依頼を3回出します。意味は書いてあります。ところが、返ってきたのは、5件、9件、14件でした。いちばん少ない回といちばん多い回で、3倍近く違います。
 
 ## 02　違うのは、どこまでを対象にしたかです
 
@@ -14,10 +14,10 @@
 
 2つを並べると、役割がはっきりします。意味が決めるのは、何を並べるかです。決定しないと進行が止まるものを並べる、という部分でした。範囲が決めるのは、どこから拾うかです。議事録の中の、どの話までを対象にするか。この2つは別のものです。片方を決めても、もう片方は決まりません。境目がはっきり分かる例を1つ挙げます。さきほどの、次のフェーズの話です。これを落とすのは、範囲です。決定しないと進行が止まるもの、という意味には当てはまるからです。意味で落ちるのは、精算業務の中だけで解決できる話のほうです。決める必要はあっても、こちらが並べるものではないからです。場所ではなく、そのものの性質で落ちます。そして、範囲を書いていなければ、AIが決めます。AIは、議事録に書いてあることを全部対象にすることもあります。いま進めている話だけにすることもあります。どちらも、判断として成立しています。成立する判断が複数あるところは、回ごとに変わります。揺らいでほしくないなら、こちらが決めるしかありません。自分の依頼で確かめてください。どこまでを見るか、が書いてあるかどうかです。
 
-## 04　範囲を1文だけ書き足します
+## 04　範囲を1つだけ書き足します
 
-では、範囲を書き足します。足すのは1つです。見るのは、今回の案件で、本番の切り替えまでに決めるものです。次のフェーズの話と、定例で出た別案件の話、全社の連絡事項は含めません。ここでも、含めないものを書き出しています。そして、もう1つ気づいてほしいことがあります。別案件の相談のところにも、課題という語が出てきます。ただ、そこでの課題は、別の案件を進めている担当者にとっての課題です。こちらが決めた意味、つまり、この案件の進行が止まるものとは、別のものです。同じ語でも、範囲の外では別のものを指しています。ですので、意味を決めただけでは足りません。その意味が通用する場所まで決めて、はじめて1つに定まります。1つ補足します。範囲は、渡すものが何本かとは関係ありません。1本だけ渡すときでも、範囲は決められます。議事録の全体を見るのか。特定の議題だけを見るのか。直近の期間だけを見るのか。この違いです。
+では、範囲を書き足します。足すのは1つです。見るのは、今回の案件で、本番の切り替えまでに決めるものです。次のフェーズの話と、定例で出た別案件の話、全社の連絡事項は含めません。ここでも、含めないものを書き出しています。そして、もう1つ気づいてほしいことがあります。別案件の相談のところにも、課題という語が出てきます。ただ、そこでの課題は、別の案件を進めている担当者にとっての課題です。こちらが決めた意味、つまり、この案件の進行が止まるものとは、別のものです。同じ語でも、範囲の外では別のものを指しています。ですので、意味を決めただけでは足りません。その意味が通用する場所まで決めて、はじめて1つに定まります。1つ補足します。範囲は、渡すものが何回分かとは関係ありません。1回分だけ渡すときでも、範囲は決められます。議事録の全体を見るのか。特定の議題だけを見るのか。直近の期間だけを見るのか。この違いです。
 
 ## 05　範囲を足すと、拾ってくる場所が揃います
 
-同じ5週分を渡したまま、もう一度3回頼みます。返ってきたのは、5件、6件、5件です。中身を見ると、どの回も、今回の案件で本番の切り替えまでに決めることだけを拾っています。次のフェーズの話も、別案件の相談も、全社の連絡事項も、どの回にも出てきません。14件に膨らむようなことは、もう起きません。件数はまだ少し動きます。1件を2行に分けた回と、すでに決まったものが混じった回があるためです。ここまでで、何を並べるかと、どこから拾うかが決まりました。範囲を1つ決めたことで、もう1段下がりました。それでも、まだ揃っていないものがあります。1件ずつの書き方です。次は、1件ずつの中身の話です。
+同じ5週分を渡したまま、もう一度3回頼みます。返ってきたのは、5件、6件、5件です。中身を見ると、どの回も、今回の案件で本番の切り替えまでに決めることだけを拾っています。次のフェーズの話も、別案件の相談も、全社の連絡事項も、どの回にも出てきません。14件に膨らむようなことは、もう起きません。件数はまだ少し動きます。1件を2行に分けた回と、すでに決まったものが混じった回があるためです。ここまでで、何を並べるかと、どこから拾うかが決まりました。範囲を1つ決めたことで、高さがもう少し下がりました。それでも、まだ揃っていないものがあります。1件ずつの書き方です。次は、1件ずつの中身の話です。

diff --git a/docs/workshops/ai-workshop/materials/decks/lesson-03-word-script.md b/docs/workshops/ai-workshop/materials/decks/lesson-03-word-script.md
@@ -1,6 +1,6 @@
 # 3本目　意味を決める ── 何のために整理するかを、依頼に書く
 
-枚数 6（表紙1・本編5）　読み上げ 2494字
+枚数 6（表紙1・本編5）　読み上げ 2498字
 
 ## 01　同じものを渡して、同じことを3回頼みます
 
@@ -12,12 +12,12 @@
 
 ## 03　依頼には、何のために整理するかが書いてありません
 
-ここで、依頼のほうを見直します。課題を整理して。この依頼に書いてあるのは、整理せよ、ということだけです。何のために整理するのかは、どこにも出てきません。PMの頭の中にはありました。次の打ち合わせで決めることを確定したい、そのために整理してほしい、という目的です。ただ、PMにとっては自分の業務の目的なので、わざわざ書く必要を感じません。自分にとっては、整理するといえばその整理だからです。ところがAIから見ると、この依頼には整理の目的が書いてありません。そして、経理の整理も、開発の整理も、どちらも整理として成立しています。どれを選んでも、整理してほしい、という依頼から外れてはいません。書いていないので、AIが選びます。選び方は毎回同じとは限りません。だから、1回目は業務の流れの順、2回目は決定の期限の順、3回目は機能ごとになりました。揺らいでいるのはAIではありません。何のために整理するのかを書かないまま渡している。原因は、こちらの側に在ります。自分の依頼で確かめてください。何のために、が書いてあるかどうかです。
+ここで、依頼のほうを見直します。課題を整理して。この依頼に書いてあるのは、整理せよ、ということだけです。何のために整理するのかは、どこにも出てきません。PMの頭の中にはありました。次の打ち合わせで決めることを確定したい、そのために整理してほしい、という目的です。ただ、PMにとっては自分の業務の目的なので、わざわざ書く必要を感じません。自分にとっては、整理するといえばその整理だからです。ところがAIから見ると、この依頼には整理の目的が書いてありません。そして、精算業務の側の整理も、開発の側の整理も、どちらも整理として成立しています。どれを選んでも、整理してほしい、という依頼から外れてはいません。書いていないので、AIが選びます。選び方は毎回同じとは限りません。だから、1回目は業務の流れの順、2回目は決定の期限の順、3回目は機能ごとになりました。揺らいでいるのはAIではありません。何のために整理するのかを書かないまま渡している。原因は、こちらの側に在ります。自分の依頼で確かめてください。何のために、が書いてあるかどうかです。
 
-## 04　何を並べるかを、1文で書き足します
+## 04　何を並べるかを、1つ書き足します
 
 では、どう書くか。意味の指定を1つ、足します。課題とは、次の打ち合わせで決定しないと、案件の進行が止まるものです。経費の精算業務の中で解決できるものと、システムの開発の中で解決できるものは含めません。この指定で、2つのことをしています。1つめは、何を並べるかを書いたことです。決定しないと案件の進行が止まるもの。これがPMの整理で並ぶものです。2つめは、含めないものを書き出したことです。含めるものだけを書くと、どちらとも取れるものが残ります。今回でいえば、月次の締めの話です。これは進行が止まる話にも、精算業務の話にも読めます。含めないものを書いておけば、この1件を入れるのか外すのかが決まります。判断させたくないところは、こちらが先に書いておく。理由はこれだけです。なお、この指定は目的の側から書いています。次回の議題と、呼ぶ人を決めたい。そのために要るものが、決定しないと進行が止まるものだからです。並べ方と、各項目に何を添えるかは、まだ書いていません。そこは「条件を決める」で扱います。
 
 ## 05　意味を足すと、並ぶものの種類が揃います
 
-同じ議事録を渡して、もう一度3回頼みます。返ってきたのは、4件、6件、5件です。件数は揃いません。中身を読み上げます。5件の回に並んでいたのは、承認の経路と、差し戻しの扱い。申請の締め日と、旧システムの停止日。そして、既存データの移行です。6件の回は、既存データの移行を、移行の対象と移行の日付の2行に分けていました。4件の回は、承認の経路と差し戻しの扱いを1行にまとめていました。どれも、決定しないと案件の進行が止まるものです。月次の締めの話は、どの回にも入っていません。試験環境の話も同じです。並ぶ順は、まだ回ごとに違います。揃ったのは、並んでいる項目の種類のほうです。足したのは、意味の指定を1つだけです。依頼の全体を書き直してはいません。もとの、課題を整理して、はそのまま残っています。ここで、件数まで揃えにいく必要はありません。議事録に出ている項目は5件です。1つを2行に分けた回や、2つを1行にまとめた回があるだけです。どれも、決定しないと進行が止まるものである点は変わりません。では、件数が合っているかは何で判定するか。返ってきた一覧を、上から読んでください。次の打ち合わせでそのまま議題にできない項目が1つでもあれば、外れです。件数の多い少ないではなく、使えない項目が混じっているかどうかで判定します。意味を1つ決めたことで、依頼の高さが1段下がりました。ただし、この時点でもまだ揃っていないものがあります。1件ずつの書き方です。誰が決めるのかが書いてある回と、書いていない回があります。そこは「条件を決める」で扱います。次は、渡すものを増やしたときに何が起きるかを見ます。
+同じ議事録を渡して、もう一度3回頼みます。返ってきたのは、4件、6件、5件です。件数は揃いません。中身を読み上げます。5件の回に並んでいたのは、承認の経路と、差し戻しの扱い。申請の締め日と、旧システムの停止日。そして、既存データの移行です。6件の回は、既存データの移行を、移行の対象と移行の日付の2行に分けていました。4件の回は、承認の経路と差し戻しの扱いを1行にまとめていました。どれも、決定しないと案件の進行が止まるものです。月次の締めの話は、どの回にも入っていません。試験環境の話も同じです。並ぶ順は、まだ回ごとに違います。揃ったのは、並んでいる項目の種類のほうです。足したのは、意味の指定を1つだけです。依頼の全体を書き直してはいません。もとの、課題を整理して、はそのまま残っています。ここで、件数まで揃えにいく必要はありません。議事録に出ている項目は5件です。1つを2行に分けた回や、2つを1行にまとめた回があるだけです。どれも、決定しないと進行が止まるものである点は変わりません。では、件数が合っているかは何で判定するか。返ってきた一覧を、上から読んでください。次の打ち合わせでそのまま議題にできない項目が1つでもあれば、外れです。件数の多い少ないではなく、使えない項目が混じっているかどうかで判定します。意味を1つ決めたことで、依頼の高さが下がりました。ただし、この時点でもまだ揃っていないものがあります。1件ずつの書き方です。誰が決めるのかが書いてある回と、書いていない回があります。そこは「条件を決める」で扱います。次は、渡すものを増やしたときに何が起きるかを見ます。

diff --git a/docs/workshops/ai-workshop/materials/decks/lesson-02-intro-script.md b/docs/workshops/ai-workshop/materials/decks/lesson-02-intro-script.md
@@ -1,6 +1,6 @@
 # 2本目　原因を知る ── 依頼の書き方で、当てはまる場面の広さが変わる
 
-枚数 8（表紙1・本編7）　読み上げ 2817字
+枚数 8（表紙1・本編7）　読み上げ 2815字
 
 ## 01　前の動画で選んだ作業を、AIに頼んでみます
 
@@ -8,7 +8,7 @@
 
 ## 02　返ってこない困り方は、2つに分かれます
 
-揃わない、と言いましたが、困り方は2つに分かれます。この定例では、承認の経路や、申請の締め日をどうするか、といった話が出ています。中身は次の動画で詳しく見ますが、この定例の議事録は、ここから先もずっと使います。1回目は、業務の流れの順に並んだ一覧が返ってきます。申請して、承認して、支払う、という順です。もう一度同じことを頼むと、今度は決定の期限の順に並んだ一覧が返ってきます。先に決めるものが、上に来ます。同じものを渡して、同じ依頼を出しているのに、返ってくるものが違う。これが1つめの困り方です。では細かく書けばいいのかというと、別のことが起こります。1行目に承認の経路、2行目に申請の締め日、と行ごとに指定します。たしかに、そのとおりのものが返ってきます。ただ、来週の議事録では、その指定がもう合いません。毎回書き直すことになります。これが2つめの困り方です。この2つの困り方は、まったく逆の現象に見えますが、もとは同じ1つの原因から起きています。その原因を、次に見ます。
+揃わない、と言いましたが、困り方は2つに分かれます。渡しているのは、オリエンテーションで見た、あの定例の議事録です。承認の経路や、申請の締め日をどうするか、といった話が出ています。中身は次の動画で詳しく見ます。1回目は、業務の流れの順に並んだ一覧が返ってきます。申請して、承認して、支払う、という順です。もう一度同じことを頼むと、今度は決定の期限の順に並んだ一覧が返ってきます。先に決めるものが、上に来ます。同じものを渡して、同じ依頼を出しているのに、返ってくるものが違う。これが1つめの困り方です。では細かく書けばいいのかというと、別のことが起こります。1行目に承認の経路、2行目に申請の締め日、と行ごとに指定します。たしかに、そのとおりのものが返ってきます。ただ、来週の議事録では、その指定がもう合いません。毎回書き直すことになります。これが2つめの困り方です。この2つの困り方は、まったく逆の現象に見えますが、もとは同じ1つの原因から起きています。その原因を、次に見ます。
 
 ## 03　原因は、依頼が当てはまる場面の広さです
 
@@ -16,7 +16,7 @@
 
 ## 04　当てはまる場面の広さが、抽象の高さです
 
-ここで、1つ名前を付けます。いまの2つの依頼を、当てはまる場面の広い順に並べてみます。当てはまる場面がいちばん多いのは、課題を整理して、という書き方です。広い書き方なので、当てはまる場面が多いぶん、何が返ってくるかは決まりません。いちばん少ないのは、1行目に承認の経路、2行目に申請の締め日、と書いた依頼です。狭い書き方なので、当てはまるのは、この議事録のこの1回だけ。ほかでは使えません。当てはまる場面が多い書き方を、抽象と呼びます。少ない書き方を、具体と呼びます。そして、その多い少ないの度合いを、抽象の高さと呼びます。以降は短く、高さとします。では、ちょうどいい高さはどこかというと、この教材でこれから足す、3つの文で決まります。その3つが何かは、このあとすぐ見ます。
+ここで、1つ名前を付けます。いまの2つの依頼を、当てはまる場面の広い順に並べてみます。当てはまる場面がいちばん多いのは、課題を整理して、という書き方です。広い書き方なので、当てはまる場面が多いぶん、何が返ってくるかは決まりません。いちばん少ないのは、1行目に承認の経路、2行目に申請の締め日、と書いた依頼です。狭い書き方なので、当てはまるのは、この議事録のこの1回だけ。ほかでは使えません。当てはまる場面が多い書き方を、抽象と呼びます。少ない書き方を、具体と呼びます。そして、その多い少ないの度合いを、抽象の高さと呼びます。以降は短く、高さとします。では、ちょうどいい高さはどこかというと、この教材でこれから足す、3つで決まります。その3つが何かは、このあとすぐ見ます。
 
 ## 05　抽象の高さが目的に合うと、渡すものを替えても外れません
 
@@ -24,7 +24,7 @@
 
 ## 06　高さを決めているのは、依頼に何を書いたかです
 
-では、その高さは何で決まるのか。高さを決めているのは、依頼に何を書いたかです。書かなかったことは、AIが決めます。AIが決めるところが多いほど、当てはまる場面は広いまま、つまり高いままになります。ただ、全部書けばいいわけではありません。すべて書き込むと、さきほどのいちばん低い依頼になり、その1回にしか使えなくなります。ですので、書くことを3つに絞ります。3つに絞るのは、揺らぎ方が3通りしかないからです。返ってくるものの形が変わること、量が変わること、1件ずつの書き方が揃わないこと。この3つを、1つずつ止めていきます。1つめは意味です。使っている語が、何を指すのか。いま使っている課題という語のように、1つの語に複数の意味が入っているとします。どの意味で拾うかは、AIが決めます。2つめは範囲です。どこから拾うのか。資料をまとめて渡すと、どこまで読むかはAIが決めます。3つめは条件です。1件ずつに何を入れるか、どれを落とすか、どの順に並べるか。これを書いていなければ、入っている回と入っていない回に分かれます。この3つは、書かなければAIが決める、という点で共通しています。そしてAIの決め方は、毎回同じとは限りません。だから、返ってくるものが回ごとに変わります。この毎回変わることを、この教材では揺らぐと呼びます。
+では、その高さは何で決まるのか。高さを決めているのは、依頼に何を書いたかです。書かなかったことは、AIが決めます。AIが決めるところが多いほど、当てはまる場面は広いまま、つまり高いままになります。ただ、全部書けばいいわけではありません。すべて書き込むと、さきほどのいちばん低い依頼になり、その1回にしか使えなくなります。ですので、書くことを3つに絞ります。3つに絞るのは、返ってくるものの変わり方が3通りしかないからです。形が変わること、量が変わること、1件ずつの書き方が揃わないこと。この3つを、1つずつ止めていきます。1つめは意味です。使っている語が、何を指すのか。いま使っている課題という語のように、1つの語に複数の意味が入っているとします。どの意味で拾うかは、AIが決めます。2つめは範囲です。どこから拾うのか。資料をまとめて渡すと、どこまで読むかはAIが決めます。3つめは条件です。1件ずつに何を入れるか、どれを落とすか、どの順に並べるか。これを書いていなければ、入っている回と入っていない回に分かれます。この3つは、書かなければAIが決める、という点で共通しています。そしてAIの決め方は、毎回同じとは限りません。だから、返ってくるものが回ごとに変わります。この毎回変わることを、この教材では揺らぐと呼びます。
 
 ## 07　ちょうどいい高さは、この順で探します
 

diff --git a/docs/workshops/ai-workshop/materials/decks/lesson-07-height-script.md b/docs/workshops/ai-workshop/materials/decks/lesson-07-height-script.md
@@ -1,6 +1,6 @@
 # 7本目　高さを合わせる ── 渡すものが替わっても、返ってくるものが目的から外れない
 
-枚数 7（表紙1・本編6）　読み上げ 2484字
+枚数 7（表紙1・本編6）　読み上げ 2490字
 
 ## 01　もとの依頼に、3つを書き足しました
 
@@ -16,7 +16,7 @@
 
 ## 04　意味・範囲・条件を決めることが、高さを合わせることでした
 
-意味を決める、から、条件を決める、までの3本を振り返ります。抽象とか具体とかいう語は、ほとんど使いませんでした。やったのは、意味を決めて、範囲を決めて、条件を決める、という3つだけです。この3つが、実は高さを合わせる作業でした。意味は、何を並べるかを決めます。範囲は、どこから拾うかを決めます。条件は、1件ずつに何を入れるかと、一覧から落とすものと、並べる順を決めます。3つとも、書かなければAIが決めるところです。AIの決め方は毎回違うので、返ってくるものが揺らぎます。抽象度を上げる、下げる、という言い方では、何をすればよいかが決まりません。この3つなら書けます。高さを合わせる、というのは、この3つを書くことです。なぜ3つなのか。この6本で、揺らぎ方は3通り出てきました。返ってくる形が変わる回と、拾ってくる量が変わる回と、1件ずつの作りが揃わない回です。3つめには、中身が欠ける回も入ります。すでに決まったものが混じる回も、並ぶ順がばらばらの回も、ここに入ります。意味が1つめを止め、範囲が2つめを、条件が3つめを止めました。ですので3つです。
+意味を決める、から、条件を決める、までの3本を振り返ります。抽象や具体という語は、ほとんど使いませんでした。やったのは、意味を決めて、範囲を決めて、条件を決める、という3つだけです。この3つが、実は高さを合わせる作業でした。意味は、何を並べるかを決めます。範囲は、どこから拾うかを決めます。条件は、1件ずつに何を入れるかと、一覧から落とすものと、並べる順を決めます。3つとも、書かなければAIが決めるところです。AIの決め方は毎回同じとは限らないので、返ってくるものが揺らぎます。抽象度を上げる、下げる、という言い方では、何をすればよいかが決まりません。この3つなら書けます。高さを合わせる、というのは、この3つを書くことです。なぜ3つなのか。この6本で、揺らぎ方は3通り出てきました。返ってくる形が変わる回と、拾ってくる量が変わる回と、1件ずつの作りが揃わない回です。3つめには、中身が欠ける回も入ります。すでに決まったものが混じる回も、並ぶ順がばらばらの回も、ここに入ります。意味が1つめを止め、範囲が2つめを、条件が3つめを止めました。ですので3つです。
 
 ## 05　だから、渡すものが替わっても目的から外れません
 
@@ -24,4 +24,4 @@
 
 ## 06　高さを見極めると、AIから返ってくるものに、再現性が出ます
 
-この教材のはじめに、身につけるのは抽象と具体という見方です、と言いました。その見方が何に効いてくるのかを、最後に話します。ここまで、意味と範囲と条件を決めてきました。その結果として手に入るのは、AIから返ってくるものの再現性です。まず、再現性とは何かをはっきりさせます。毎回まったく同じ文章が返ってくること、ではありません。それはAIでは起こりませんし、目指しても意味がありません。ここでいう再現性とは、同じ目的に対して、毎回、目的の中に収まるものが返ってくることです。高さが合っていない依頼では、返ってきたものが目的の外へ出る回があります。何回かに1回、そのままでは使えないものが返ってきます。その1回のために、毎回中身を確認して、手で直すことになります。ちょうどいい高さの依頼では、中身は毎回違っても、どれも目的の中に収まります。渡すものが替わっても外れませんし、依頼を別の人が使っても外れません。だから、その依頼は仕組みとして残せます。ここが、高さを見極めることの意味です。オリエンテーションで、出来事を1つ挙げました。議事録から次に決めることを洗い出して並べ直すのに、毎回時間がかかる、というものです。その本質は、議事録から決める必要があるものだけを取り出せていないことでした。いま、その取り出しが毎回同じようにできるところまで来ました。これを人が承認できる形に固定するのが、教材3です。毎回の出来を運に任せるのではなく、目的から外れない範囲を自分で決める。それが、この6本の動画でやってきたことでした。依頼が広いのか狭いのかを自分で見分けられる。それが、仕組みとして残せるかどうかの判定につながります。次の動画で、書き足したものをもう一度並べて、次の教材へつなぎます。
+この教材のはじめに、身につけるのは抽象と具体という見方です、と言いました。その見方が何に効いてくるのかを、最後に話します。ここまで、意味と範囲と条件を決めてきました。その結果として手に入るのは、AIから返ってくるものの再現性です。まず、再現性とは何かをはっきりさせます。毎回まったく同じ文章が返ってくること、ではありません。それはAIでは起こりませんし、目指しても意味がありません。ここでいう再現性とは、同じ目的に対して、毎回、目的の中に収まるものが返ってくることです。高さが合っていない依頼では、返ってきたものが目的の外へ出る回があります。何回かに1回、そのままでは使えないものが返ってきます。その1回のために、毎回中身を確認して、手で直すことになります。ちょうどいい高さの依頼では、中身は毎回違っても、どれも目的の中に収まります。渡すものが替わっても外れませんし、依頼を別の人が使っても外れません。だから、その依頼は仕組みとして残せます。ここが、高さを見極めることの意味です。オリエンテーションで、出来事を1つ挙げました。議事録から次に決めることを洗い出して並べ直すのに、毎回時間がかかる、というものです。その本質は、議事録から決める必要があるものだけを取り出せていないことでした。いま、その取り出しが毎回同じようにできるところまで来ました。これを人が承認できる形に固定するのが、教材3です。毎回の結果を運に任せるのではなく、目的から外れない範囲を自分で決めること。それが、この6本の動画でやってきたことでした。依頼が広いのか狭いのかを自分で見分けられる。それが、仕組みとして残せるかどうかの判定につながります。次の動画で、書き足したものをもう一度並べて、次の教材へつなぎます。

diff --git a/docs/workshops/ai-workshop/materials/decks/lesson-00-start-script.md b/docs/workshops/ai-workshop/materials/decks/lesson-00-start-script.md
@@ -1,6 +1,6 @@
 # オリエンテーション　下期AI活用ワークショップ ── 業務から学ぶ、課題をAIで解決する力
 
-枚数 8（表紙1・本編7）　読み上げ 3129字
+枚数 8（表紙1・本編7）　読み上げ 3143字
 
 ## 01　このワークショップで身につけるのは、課題をAIで解決する力です
 
@@ -12,7 +12,7 @@
 
 ## 03　1つの案件に、3つの業務が関わっています
 
-いま例に挙げた案件を、詳しく見ます。題材は、経費精算システムを入れ替える案件です。本番の切り替えは3か月後と決まっています。この案件には、3つの業務が関わっています。1つめは、経費の精算業務です。経理が、日々の精算と支払を進めています。2つめが、案件の進行管理です。PMが、本番の切り替えまで案件を止めずに進めています。そして3つめが、システムの開発です。開発が、画面と、周辺システムとの連携を作っています。この3つが、週に1回、定例に集まります。そこで決まったことと、決まっていないことが議事録に残ります。議事録を書くのはPMです。このワークショップが使うのは、この案件と、この3つの業務と、この定例です。3本の教材は、すべてこの案件の上で進みます。案件を替えると、言葉の指すものまで替わります。そうなると、何が効いたのかが分からなくなるからです。
+いま例に挙げた案件を、詳しく見ます。題材は、経費精算システムを入れ替える案件です。本番の切り替えは3か月後と決まっています。この案件には、3つの業務が関わっています。1つめは、経費の精算業務です。経理が、日々の精算と支払を進めています。2つめが、案件の進行管理です。PMが、本番の切り替えまで案件を止めずに進めています。そして3つめが、システムの開発です。開発が、画面と、周辺システムとの連携を作っています。この3つが、週に1回、定例に集まります。そこで決まったことと、決まっていないことが議事録に残ります。議事録を書くのはPMです。このワークショップが使うのは、この案件と、この3つの業務と、この定例です。3本の教材は、すべてこの案件の上で進みます。案件は替えません。案件を替えると、言葉の指すものまで替わります。そうなると、何が効いたのかが分からなくなるからです。
 
 ## 04　業務は、いくつもの作業でできています
 
@@ -20,11 +20,11 @@
 
 ## 05　教材1は、そのうちの1つの作業から始めます
 
-教材1が扱うのは、このうちの1つ、課題を整理する、という作業です。この作業は、4つの問いで書き表せます。実行するのはPMで、目的は、次回の議題と、呼ぶ人を決めることです。受け取るのは定例の議事録で、返すのは課題の一覧です。なぜ、業務ではなく作業から始めるのか。理由は3つあります。1つめは、実行する人が1人に決まるからです。業務の全体から入ると、経理もPMも開発も出てきて、誰に向けた依頼なのかが決まりません。2つめは、目的が1つに決まるからです。1つに決まっていれば、返ってきたものがそこに合っているかを、その場で見られます。3つめは、渡すものと返すものが決まるからです。決まっていれば、返ってきたものが正しいかどうかを判定できます。作業は、この3つがはっきり決まる単位です。ですから、教材1はここから始めます。そして教材1では、この作業1つだけを、最後まで使います。
+教材1が扱うのは、このうちの1つ、課題を整理する、という作業です。この作業は、4つの問いで書き表せます。実行するのはPMで、目的は、次回の議題と、呼ぶ人を決めることです。受け取るのは定例の議事録で、返すのは課題の一覧です。なぜ、業務ではなく作業から始めるのか。理由は3つあります。1つめは、実行する人が1人に決まるからです。業務の全体から入ると、経理もPMも開発も出てきて、誰に向けた依頼なのかが決まりません。2つめは、目的が1つに決まるからです。1つに決まっていれば、返ってきたものがそこに合っているかを、その場で見られます。3つめは、渡すものと返すものが決まるからです。決まっていれば、返ってきたものが正しいかどうかを判定できます。作業は、実行する人と、目的と、渡すものと返すものが、はっきり決まる単位です。ですから、教材1はここから始めます。そして教材1では、この作業1つだけを、最後まで使います。
 
 ## 06　3本で、扱う範囲が1つずつ広がります
 
-このワークショップは3本あります。扱う範囲が、1本ごとに広がります。教材1が扱うのは、課題の把握です。問いは、作業1つをAIに正しく実行させるにはどうするか、というものです。身につくのは、意味と範囲と条件の3つを書く、という手順です。ここでは、PMの業務の中だけで話が閉じます。教材2が扱うのは、業務の整理です。問いは、業務が違うと何が起きるのか、というものです。同じ言葉でも、業務が違えば指すものが変わります。業務の切れ目をどこに引き、その中で言葉をどう揃えるかを扱います。教材3が扱うのは、仕組みの構築です。問いは、決めたことを、人が承認できる形にどう固定するか、というものです。決めたことを、AIが毎回同じように実行する形にします。そのための道具を教材3で扱います。ここで1つ言っておきます。教材3で作るのは、AIに任せきる仕組みではありません。人が中身を確かめて、そのまま承認できるものを返させる仕組みです。3本とも、いま見た同じ案件を使います。題材を替えません。
+この3本は、扱う範囲が1本ごとに広がります。教材1が扱うのは、課題の把握です。問いは、作業1つをAIに正しく実行させるにはどうするか、というものです。身につくのは、意味と範囲と条件の3つを書く、という手順です。ここでは、PMの業務の中だけで話が閉じます。教材2が扱うのは、業務の整理です。問いは、業務が違うと何が起きるのか、というものです。同じ言葉でも、業務が違えば指すものが変わります。業務の切れ目をどこに引き、その中で言葉をどう揃えるかを扱います。教材3が扱うのは、仕組みの構築です。問いは、決めたことを、人が承認できる形にどう固定するか、というものです。決めたことを、AIが毎回同じように実行する形にします。そのための道具を教材3で扱います。ここで1つ言っておきます。教材3で作るのは、AIに任せきる仕組みではありません。人が中身を確かめて、そのまま承認できるものを返させる仕組みです。3本とも、いま見た同じ案件を使います。題材を替えません。
 
 ## 07　3本の土台は、業務の言葉を揃えて作ることです
 

diff --git a/docs/workshops/ai-workshop/materials/decks/lesson-05-rule-script.md b/docs/workshops/ai-workshop/materials/decks/lesson-05-rule-script.md
@@ -1,6 +1,6 @@
 # 5本目　条件を決める ── 1件ずつの中身と、並べる順を、依頼に書く
 
-枚数 6（表紙1・本編5）　読み上げ 2132字
+枚数 6（表紙1・本編5）　読み上げ 2137字
 
 ## 01　意味と範囲を決めても、1件ずつの中身は揃いません
 
@@ -8,9 +8,9 @@
 
 ## 02　必ず入れてほしい4つを、依頼に書いていませんでした
 
-ここで、自分が何を期待していたかを書き出してみます。この一覧は、次の打ち合わせで決めるために作ったものでした。ということは、項目名だけでは足りません。誰が決めるのかが分からないと、その場に呼ぶ人が決まりません。いつまでに決めるのかが分からなければ、その打ち合わせで扱うのかどうかを決められません。もう決まったものが混ざっていると、その場で1件ずつ確認し直すことになります。そして、期限と関係ない順に並んでいると、上から順に議題へ載せられません。この4つは、依頼した本人の頭の中には在りました。ただ、依頼には記していません。記していない約束は、守られる回と守られない回が出ます。書いていないことは、頼んでいないのと同じです。自分の依頼で条件を見つけるなら、返ってきたものを見てください。自分で手直ししている箇所を数えます。毎回同じところを直しているなら、それが条件です。
+ここで、自分が何を期待していたかを書き出してみます。この一覧は、次の打ち合わせで決めるために作ったものでした。ということは、項目名だけでは足りません。誰が決めるのかが分からないと、その場に呼ぶ人が決まりません。いつまでに決めるのかが分からなければ、その打ち合わせで扱うのかどうかを決められません。もう決まったものが混ざっていると、その場で1件ずつ確認し直すことになります。そして、期限と関係ない順に並んでいると、上から順に議題へ載せられません。この4つは、依頼した本人の頭の中には在りました。ただ、依頼には書いていません。書いていない期待は、満たされる回と満たされない回が出ます。書いていないことは、頼んでいないのと同じです。自分の依頼で条件を見つけるなら、返ってきたものを見てください。自分で手直ししている箇所を数えます。毎回同じところを直しているなら、それが条件です。
 
-## 03　条件は、1件ずつの中身を決めます
+## 03　条件には、1件ずつに効くものと、一覧に効くものがあります
 
 3つを並べます。意味で決めたのは、並べるものの種類でした。範囲で決めたのは、拾ってくる場所です。この2つは、一覧そのものに効いています。どういう一覧になるかを決める部分です。条件は、その一覧の中を決めます。1件ずつに、何を必ず入れるかを決めます。どの項目にも、誰が決めるかを入れる。どの項目にも、いつまでかを入れる。ここで重要なのは、どれか1件ではなく、どの項目にも、と書くことです。1つでも欠けていたら、それは条件を満たしていない。そう判定できる形で書きます。条件には2種類あります。1件ずつの中身を決めるものは、どの項目にも、で始めます。一覧から落とすものと、並べる順は、一覧の全体に効くので、別に書きます。
 
@@ -20,4 +20,4 @@
 
 ## 05　条件を足すと、1件ずつの中身が揃います
 
-同じ依頼で、もう一度3回頼みます。返ってきたのは、5件、6件、5件です。足す前は、3回目が6件でした。もう決まったものが1件混じっていたからです。それが落ちて、5件になりました。2回目が6件なのは、これまでと同じ理由です。1件を2行に分けた回があります。ただ、1件ずつの中身は3回とも同じ形です。承認の経路は、経理と開発が、9月30日までに決めます。申請の締め日は、開発が、9月30日までに決めます。どの項目にも、誰が決めるかと、いつまでかが入っています。申請の画面の試作を次の工程へ進める、という項目は、どの回にも入っていません。すでに決まったものだからです。並び順も、期限の早い順で揃っています。9月30日のものが先に、10月7日のものが後に並びます。足す前は3通りでした。項目名だけが並んだ回。誰が決めるかは書いてあるものの、いつまでかが抜けている回。そして、すでに決まったものが混じっていて、並び順もばらばらな回です。ここまでで、意味、範囲、条件の3つを足しました。もとの依頼は、課題を整理して、これだけでした。それが、次の打ち合わせでそのまま使える一覧を返すようになりました。これで、決めることは3つとも書けました。それでも揃わないことがあります。次の動画では、そのときにどこを見るかを扱います。
+同じ依頼で、もう一度3回頼みます。返ってきたのは、5件、6件、5件です。条件を足す前は、3回目が6件でした。もう決まったものが1件混じっていたからです。それが落ちて、5件になりました。2回目が6件なのは、これまでと同じ理由です。1件を2行に分けた回があります。ただ、1件ずつの中身は3回とも同じ形です。承認の経路は、経理と開発が、9月30日までに決めます。申請の締め日は、開発が、9月30日までに決めます。どの項目にも、誰が決めるかと、いつまでかが入っています。申請の画面の試作を次の工程へ進める、という項目は、どの回にも入っていません。すでに決まったものだからです。並び順も、期限の早い順で揃っています。9月30日のものが先に、10月7日のものが後に並びます。足す前は3通りでした。項目名だけが並んだ回。誰が決めるかは書いてあるものの、いつまでかが抜けている回。そして、すでに決まったものが混じっていて、並び順もばらばらな回です。ここまでで、意味、範囲、条件の3つを足しました。もとの依頼は、課題を整理して、これだけでした。それが、次の打ち合わせでそのまま使える一覧を返すようになりました。これで、決めることは3つとも書けました。それでも揃わないことがあります。次の動画では、そのときにどこを見るかを扱います。

diff --git a/docs/workshops/ai-workshop/materials/decks/lesson-06-fix-script.md b/docs/workshops/ai-workshop/materials/decks/lesson-06-fix-script.md
@@ -8,7 +8,7 @@
 
 ## 02　直すときも、意味・範囲・条件の順に見ます
 
-どこから見るかを決めておきます。決めたときと同じ順です。意味、範囲、条件の順に見ます。まず意味です。何を並べるかが書いてあるかどうかを見ます。返ってくる形が違うときは、ここを疑います。一覧の種類が回ごとに変わるなら、まだ意味が2つ以上ある語が残っています。さきほどの、相談したいだけの項目が混じる例が、これにあたります。次に範囲です。渡すもののどこまでを見るかが書いてあるかどうかを見ます。拾ってくる量が違うときは、ここを見直します。前の週には出てきたのに今週は出てこない例が、これにあたります。最後に条件です。必ず入れるものと、落とすものと、並べる順が書いてあるかどうかを見ます。中身が欠けたり、書き方が揃わなかったりするときは、ここを確かめます。期限が、今月中、と、9月30日、で混ざったのは、日付で書く、と書いていなかったからです。ここで大事なのは、順番のほうです。症状は、どこを疑うかの手がかりにすぎません。中身が欠けているからといって、いきなり条件から直すと、直らないことがあります。意味が決まっていなければ、範囲は引けません。範囲が決まっていなければ、条件は書けません。決めるときにこの順だったのと同じ理由で、直すときもこの順です。先の1つが決まっていなければ、後の1つを直しても揃いません。
+どこから見るかを決めておきます。決めたときと同じ順です。意味、範囲、条件の順に見ます。まず意味です。何を並べるかが書いてあるかどうかを見ます。返ってくる形が違うときは、ここを疑います。一覧の種類が回ごとに変わるなら、まだ意味が2つ以上ある語が残っています。さきほどの、相談したいだけの項目が混じる例が、これにあたります。次に範囲です。渡すもののどこまでを見るかが書いてあるかどうかを見ます。拾ってくる量が違うときは、ここを見直します。前の週には出てきたのに今週は出てこない例が、これにあたります。最後に条件です。必ず入れるものと、落とすものと、並べる順が書いてあるかどうかを見ます。中身が欠けたり、書き方が揃わなかったりするときは、ここを確かめます。期限が、今月中、と、9月30日、で混ざったのは、日付で書く、と書いていなかったからです。ここで大事なのは、順番のほうです。症状は、どこを疑うかの手がかりにすぎません。中身が欠けているからといって、いきなり条件から直すと、直らないことがあります。意味が決まっていなければ、範囲は引けません。範囲が決まっていなければ、条件は書けません。決めるときにこの順だったのと同じ理由で、直すときもこの順です。前の1つが決まっていなければ、次の1つを直しても揃いません。
 
 ## 03　直すのは1つずつです
 
@@ -20,4 +20,4 @@
 
 ## 05　直し方を、1枚にまとめます
 
-最後に、3つを直しても、目的を1つにしても、それでも揃わないときの話をします。そのときは、その作業がまだ2つに分かれています。誰が実行するか、何のために実行するかに戻って、1つに絞り直してください。作業が1つになっていない依頼は、この3つでは揃いません。分かれているかどうかは、何のために実行するか、を1文で書いて確かめます。その1文が、と、あるいは、そして、といった語でつながっているなら、目的は2つです。入っている場所で依頼を2つに分けてください。では、直し方を1枚にまとめます。返ってくるものが揺らいだら、意味、範囲、条件の順に見ます。症状は手がかりです。形が違うなら意味、量が違うなら範囲、中身が欠けるなら条件を疑います。ただし、先の1つが決まっていなければ、後の1つを直しても揃いません。それでも収まらなければ、目的が1つかどうかを見ます。直すときは、変えるのは1か所、確かめるのは3回です。これだけです。ここまでで、手順は全部出そろいました。決めることが3つ、直し方が1つです。ただ、まだ言っていないことがあります。そもそもこの3つは何だったのか、そしてなぜ3つなのか、という点です。次の動画で、そこを振り返ります。
+最後に、3つを直しても、目的を1つにしても、それでも揃わないときの話をします。そのときは、その作業がまだ2つに分かれています。誰が実行するか、何のために実行するかに戻って、1つに絞り直してください。作業が1つになっていない依頼は、この3つでは揃いません。分かれているかどうかは、何のために実行するか、を1文で書いて確かめます。その1文が、と、あるいは、そして、といった語でつながっているなら、目的は2つです。そのつなぎ目で、依頼を2つに分けてください。では、直し方を1枚にまとめます。返ってくるものが揺らいだら、意味、範囲、条件の順に見ます。症状は手がかりです。形が違うなら意味、量が違うなら範囲、中身が欠けるなら条件を疑います。ただし、前の1つが決まっていなければ、次の1つを直しても揃いません。それでも収まらなければ、目的が1つかどうかを見ます。直すときは、変えるのは1か所、確かめるのは3回です。これだけです。ここまでで、手順は全部出そろいました。決めることが3つ、直し方が1つです。ただ、まだ言っていないことがあります。そもそもこの3つは何だったのか、そしてなぜ3つなのか、という点です。次の動画で、そこを振り返ります。

diff --git a/docs/workshops/ai-workshop/materials/decks/lesson-01-lead-script.md b/docs/workshops/ai-workshop/materials/decks/lesson-01-lead-script.md
@@ -1,12 +1,12 @@
 # はじめに　課題の把握 ── AIに課題を整理させるとき、何を揃えるか
 
-枚数 4（表紙1・本編3）　読み上げ 1068字
+枚数 4（表紙1・本編3）　読み上げ 1075字
 
 ## 01　この教材で身につけるのは、抽象と具体という見方です
 
-ここから、教材1が始まります。この教材で身につけていただくものは、1つです。抽象と具体という見方です。いまは名前だけ覚えておいてください。何を指すのかは、1本目で実際の依頼を見ながら説明します。この見方が身につくと、2つのことができるようになります。1つめ、同じ依頼を、来週の議事録にも使えます。別の案件でも、案件を指す部分を替えるだけで使えます。2つめ、渡すものが替わっても、返ってくるものが目的から外れなくなります。この2つめが、いちばん効いてきます。ここが、この教材で最も持ち帰っていただきたいところです。それでは、始めます。
+ここから、教材1が始まります。この教材で身につけていただくものは、1つです。抽象と具体という見方です。いまは名前だけ覚えておいてください。何を指すのかは、1本目で実際の依頼を見ながら説明します。この見方が身につくと、2つのことができるようになります。1つめは、同じ依頼を、来週の議事録にも使えることです。別の案件でも、案件を指す部分を替えるだけで使えます。2つめは、渡すものが替わっても、返ってくるものが目的から外れなくなることです。この2つめが、いちばん効いてきます。ここが、この教材で最も持ち帰っていただきたいところです。それでは、始めます。
 
-## 02　この6本が扱うのは、作業1つだけです
+## 02　この教材が扱うのは、作業1つだけです
 
 まず、この教材が扱う範囲を、はっきりさせておきます。オリエンテーションで、2つのことを見ました。1つの案件に3つの業務が関わっていること。そして、業務はいくつもの作業でできていることです。この教材が扱うのは、そのうちの1つ、課題を整理する、という作業です。案件の進行管理には、ほかにも作業があります。次回の議題を組む、進捗を報告する、要員の割り当てを決める。どれも業務の中の作業です。この教材では、それらを扱いません。1つに絞ります。依頼の書き方だけを直して、何が変わるかを見たいからです。作業のほうも同時に変えてしまうと、どちらが効いたのかが分からなくなります。ですので、最後まで、この1つの作業で進みます。実行するのはPM、受け取るのは定例の議事録、返すのは課題の一覧。目的は、次回の議題と、呼ぶ人を決めることです。この4つは、この先ずっと変わりません。
 
